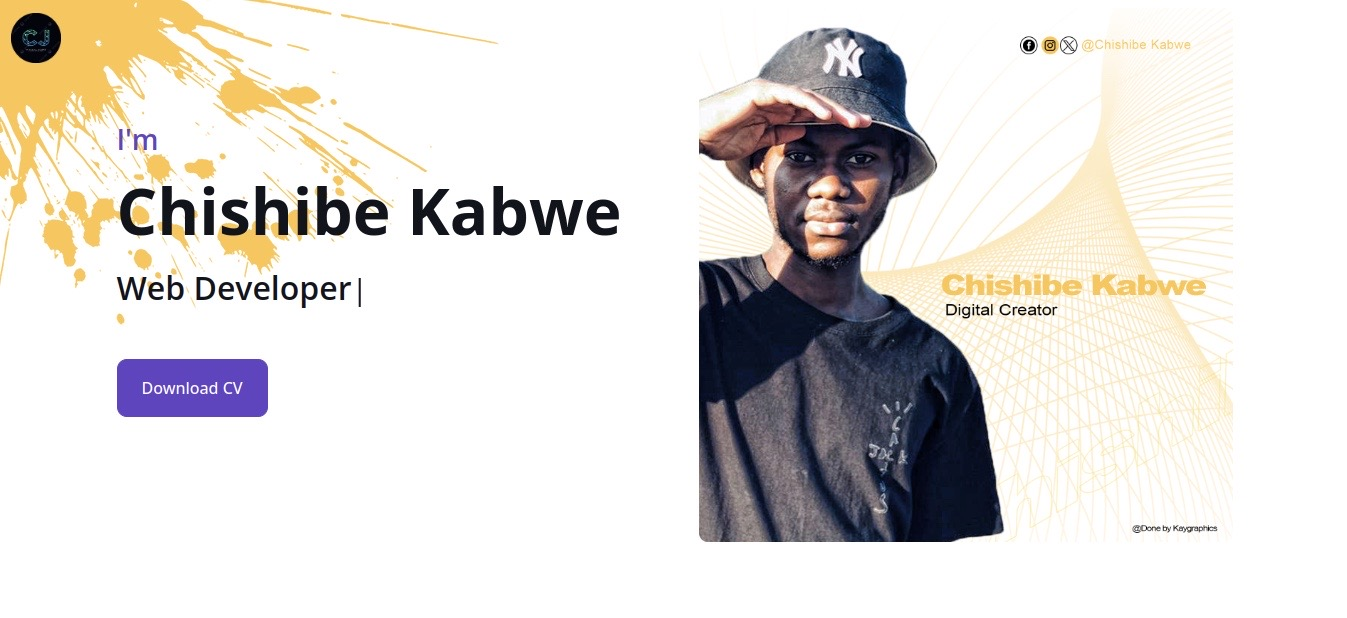
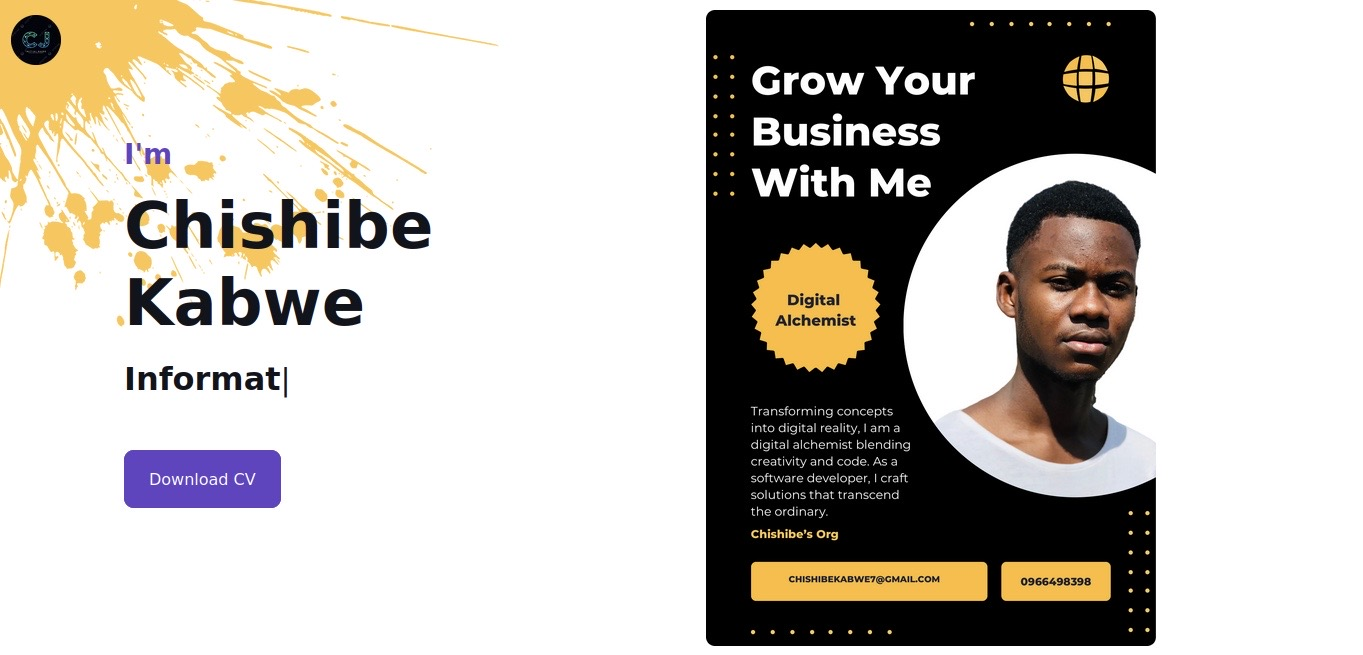
Resume 24 Development Week 3 Day 1

diff --git a/chishibekabwe7-learning-Repository/Firebase/Chishibekabwe24-Resume/public/index.html b/chishibekabwe7-learning-Repository/Firebase/Chishibekabwe24-Resume/public/index.html
@@ -41,7 +41,7 @@
             <div class="row g-5">
                 <div class="col-lg-4 sticky-lg-top vh-100">
                     <div class="d-flex flex-column h-100 text-center overflow-auto shadow">
-                        <img style="border-radius:7px;" class="w-100 img-fluid mb-4" src="img/Chishibe Kabwe main-profile.jp" alt="Image">
+                        <img style="border-radius:7px; " class="w-100 img-fluid mb-4" src="img/Digital Alchemist Pink.PNG" alt="Image">
                         <h1 class="mt-2 word-color">Chishibe Kabwe</h1>
                         <div class="mb-4" style="height: 22px;">
                             <h4 class="typed-text-output d-inline-block text-light"></h4>
@@ -127,7 +127,7 @@
 
     <!-- Skills Start -->
     <section class="py-5 border-bottom wow fadeInUp" data-wow-delay="0.1s">
-        <h1 class="title pb-3 mb-5">Skills</h1>
+        <h1 class="title pb-3 mb-5">Skills & Programming Languages</h1>
         <div class="row">
             <div class="col-sm-6">
                 <div class="skill mb-4">
@@ -362,13 +362,13 @@
                                         <div class="position-relative overflow-hidden mb-2">
                                             <img class="img-fluid w-100" src="img/5.PNG" alt="">
                                             <div class="portfolio-btn d-flex align-items-center justify-content-center">
-                                                <a href="img/" data-lightbox="portfolio">
+                                                <a href="img/Project cover - Chishibe's Resume 24.jpg" data-lightbox="portfolio">
                                                     <i class="bi bi-plus text-light"></i>
                                                 </a>
                                             </div>
                                         </div>
                                         <div style="display:flex;">
-                                          <a class="btn btn-lg-square btn-outline-secondary border-2 mx-1 portfolio-icons" href="img/project-5.jpg" data-lightbox="portfolio"><i class="fa fa-eye"></i></a>
+                                          <a class="btn btn-lg-square btn-outline-secondary border-2 mx-1 portfolio-icons" href="img/Project cover - Chishibe's Resume 24.jpg" data-lightbox="portfolio"><i class="fa fa-eye"></i></a>
                                           <a class="btn btn-lg-square btn-outline-secondary border-2 mx-1 portfolio-icons" href=""><i class="fa fa-link"></i></a>
                                         </div>
                                     </div>
